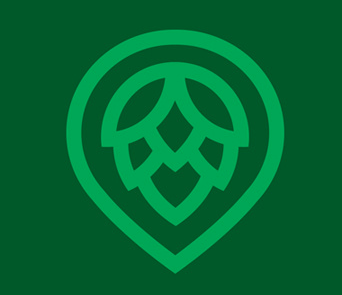
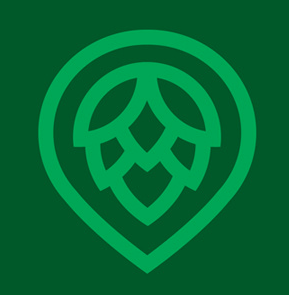
layout and design edits

diff --git a/client/src/pages/Search/index.js b/client/src/pages/Search/index.js
@@ -7,6 +7,7 @@ import './style.css';
 import SearchResults from '../../components/Results';
 import { set } from 'mongoose';
 import { AppContext } from "../../components/AppContainer";
+import icon4 from "../../components/AvatarImg/img/icon4.png";
 
 /*******************
  * 
@@ -119,16 +120,34 @@ class SearchBeers extends Component {
     }
 
     return (
-      <section id="search" className="section section-search darken-1 white-text scrollspy">
+      <section id="search" className="section section-search darken-1 scrollspy">
         <Container fluid>
-          <Jumbotron>
-            <h1 className="title">Hop to It</h1>
-          </Jumbotron>
-          <h4>What kind of beer are you looking for?</h4>
-          <Style
-            handleFormSubmit={this.handleFormSubmit}
-            handleInputChange={this.handleInputChange}
-          />
+          <div className="row">
+            <div className="col s12">
+              <Jumbotron>
+                <h1 className="title">Hop to It</h1>
+
+                <img className="circle bigIcon center-align" src={icon4}></img>
+
+              </Jumbotron>
+            </div>
+          </div>
+
+          <div className="row jumbotron2">
+            <div className="col s12">
+              <Jumbotron>
+                <h4>What kind of beer are you looking for?</h4>
+                <Style
+                  handleFormSubmit={this.handleFormSubmit}
+                  handleInputChange={this.handleInputChange}
+                />
+              </Jumbotron>
+            </div>
+          </div>
+
+
+
+
           {/* // suggestions={[
           //   "Ale",
           //   "India Pale Ale",
@@ -177,7 +196,8 @@ class SearchBeers extends Component {
           handleFormSubmit={this.handleFormSubmit}
           handleInputChange={this.handleInputChange}
       /> */}
-          <h5>Your personalized beer results:</h5>
+      
+          {/* <h5>Your personalized beer results:</h5> */}
           <SearchResults
             beers={this.state.beers}
             // Save button isn't functional yet

diff --git a/client/src/components/NavBar/index.js b/client/src/components/NavBar/index.js
@@ -67,11 +67,11 @@ class NavBar extends Component {
 
 
                         <ul id="nav-mobile" className="left hide-on-med-and-down">
-                            <li><a href="/">Home</a></li>
-                            <li><a href="/mybeers">My Beers</a></li>
-                            <li><a href="/topbeers">Top Beers</a></li>
-                            <li><a href="/search">Search</a></li>
-                            <li><a href="/signin">Logout</a></li>
+                            <li className="navLink1"><a href="/">Home</a></li>
+                            <li className="navLink1"><a href="/mybeers">My Beers</a></li>
+                            <li className="navLink1"><a href="/topbeers">Top Beers</a></li>
+                            <li className="navLink1"><a href="/search">Search</a></li>
+                            <li className="navLink1"><a href="/signin">Logout</a></li>
 
                         </ul>
                     </div>

diff --git a/client/src/components/Banner/style.css b/client/src/components/Banner/style.css
@@ -18,11 +18,14 @@
     color: white;
     font-family: 'Fira Sans', sans-serif;
     font-size: 100px;
+    text-shadow: 2px 2px 2px #000000;
 }
 .bannerCaption{
     color: white;
     font-family: 'Fira Sans', sans-serif;
     font-size: 91px;
+    margin-top: 4cm;
+    text-shadow: 2px 2px 2px #000000;
 }
 
 .bigBanner{

diff --git a/client/src/components/AvatarImg/index.js b/client/src/components/AvatarImg/index.js
@@ -2,7 +2,7 @@ import React from 'react';
 import { makeStyles } from '@material-ui/core/styles';
 import Avatar from '@material-ui/core/Avatar';
 import Grid from '@material-ui/core/Grid';
-import icon1 from './img/icon1.jpg';
+import icon1 from './img/icon4.png';
 
 const useStyles = makeStyles({
   avatar: {

diff --git a/client/src/pages/SignIn/style.css b/client/src/pages/SignIn/style.css
@@ -1,5 +1,5 @@
 nav{
-  background-color:#90AA6B;
+  background-color:#005826;
 }
 .nav-wrapper{
   margin:0 10px 10px 10px;
@@ -38,7 +38,7 @@ label{
 }
 
 .signinbtn{
-  background-color:#91A275
+  background-color:#005826
 }
 
 .googlebtn{

diff --git a/client/src/components/NavBar/style.css b/client/src/components/NavBar/style.css
@@ -1,3 +1,8 @@
 nav{
     height: 65px;
 };
+
+.navLink1{
+    color: white;
+    font-family: 'Fira Sans', sans-serif;
+}

diff --git a/client/src/pages/Search/style.css b/client/src/pages/Search/style.css
@@ -48,3 +48,6 @@ input {
   border-bottom: 1px solid #999;
 }
 
+.jumbotron2{
+  margin-top: 3cm;
+}
